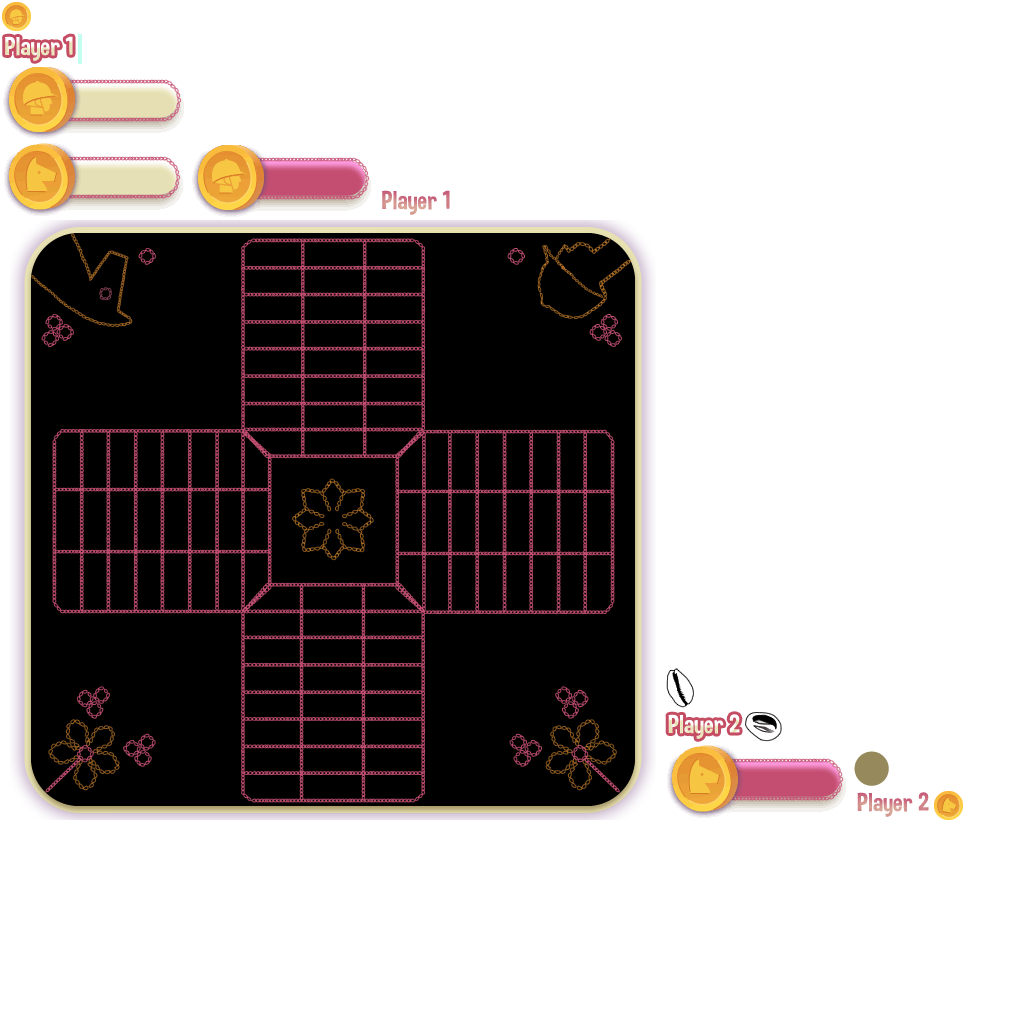
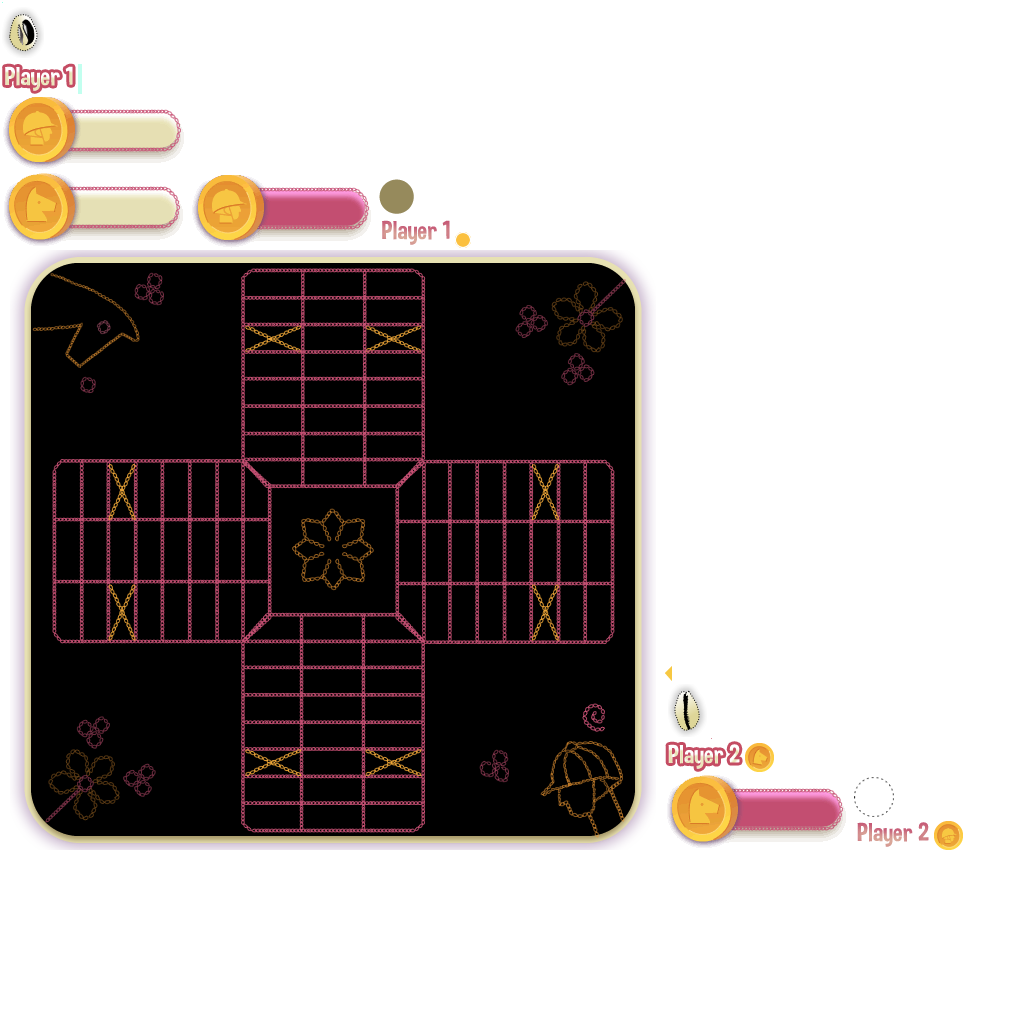
- I set the placeholders of dead pawns - I updated all images according to the latest design (board, move hint, dices, pawn highlight when it can move, etc.) - I fixed the dimension of the dice from square to actual dimensions - For now, we will account for having the game playing with two players (

Changed region(s): [[0.0, 0.0, 0.9375, 0.8438]]

diff --git a/core/src/com/smb215team/barjis/game/GameController.java b/core/src/com/smb215team/barjis/game/GameController.java
@@ -13,8 +13,6 @@ import com.smb215team.barjis.game.objects.DiceContainer;
 import com.smb215team.barjis.game.objects.Dices;
 import com.smb215team.barjis.game.objects.Pawn;
 import com.badlogic.gdx.Game;
-import com.badlogic.gdx.utils.Timer;
-import com.badlogic.gdx.utils.Timer.Task;
 import com.smb215team.barjis.game.enums.GameState;
 import com.smb215team.barjis.game.objects.Player;
 import com.smb215team.barjis.screens.MenuScreen;
@@ -36,7 +34,6 @@ public class GameController {
     // <editor-fold desc="Dino: TO DELETE Dummy stuff">
     Array<Pawn> dummyPawnToFillMap = new Array<Pawn>();
     Pawn dummyPawn = new Pawn();
-    Player dummyPlayer = new Player(1);
     // </editor-fold>
         
     public GameController (Game game) {
@@ -50,10 +47,16 @@ public class GameController {
         timerForThrowingDices = 0.0f;
         ConfigurationController.initCells();
 
-        players = new Player[2]; //TODO: account for variable number of players (1, 2, 3, 4)
+        players = new Player[2]; //TODO: account for variable number of players (1 (AI), 2, 4)
         currentPlayerIndex = 0;
-        for(int i = 0; i < players.length; i++) {
-            players[i] = new Player();
+        if(2 == players.length) {
+            players[0] = new Player(3);
+            players[1] = new Player(1);
+        }
+        else {
+            for(int i = 0; i < players.length; i++) {
+                players[i] = new Player(i);
+            }
         }
         
         initTestObjects();
@@ -85,14 +88,8 @@ public class GameController {
     
     private void initTestObjects() {
         // <editor-fold desc="Dino: TO DELETE Dummy pawn/dice">
-        for(Vector2 cell : dummyPlayer.path){
-            if(cell == null)
-                break;
-            dummyPawnToFillMap.add(new Pawn(cell.x, cell.y));
-        }
-        
-        dummyPawn.position.x = -6.18f;
-        dummyPawn.position.y = 2.83f;
+        dummyPawn.position.x = -7.345f;
+        dummyPawn.position.y = 2.12f;
         // </editor-fold>
     }
     

diff --git a/core/src/com/smb215team/barjis/game/Assets.java b/core/src/com/smb215team/barjis/game/Assets.java
@@ -15,6 +15,7 @@ import com.badlogic.gdx.graphics.g2d.TextureAtlas.AtlasRegion;
 import com.badlogic.gdx.graphics.Texture;
 import com.badlogic.gdx.graphics.Texture.TextureFilter;
 import com.badlogic.gdx.graphics.g2d.BitmapFont;
+import com.badlogic.gdx.utils.Array;
 import com.smb215team.barjis.util.Constants;
 
 /**
@@ -97,10 +98,28 @@ public class Assets implements Disposable, AssetErrorListener {
     }
 
     public class AssetPawn {
-        public final AtlasRegion pawn;
-        
+        public AtlasRegion pawn;
+        Array<AtlasRegion> listOfPawnIcons = new Array<AtlasRegion>();
+     
+        public AssetPawn (TextureAtlas atlas, int pawnImageIndex){
+            int pawnIconCounter = 0;
+            while (null != atlas.findRegion("pawn-" + pawnIconCounter)) {
+                listOfPawnIcons.add(new AtlasRegion(atlas.findRegion("pawn-" + pawnIconCounter)));
+                pawnIconCounter++;
+            }  
+            pawn = listOfPawnIcons.get(pawnImageIndex);
+        }
+
         public AssetPawn (TextureAtlas atlas){
-            pawn = atlas.findRegion("pawn-horse");
+            this (atlas, 0);
+        }
+        
+        public void init() {
+            init(0);
+        }
+        
+        public void init(int pawnImageIndex) {
+            pawn = listOfPawnIcons.get(pawnImageIndex);
         }
     }
     

diff --git a/core/src/com/smb215team/barjis/game/GameRenderer.java b/core/src/com/smb215team/barjis/game/GameRenderer.java
@@ -69,9 +69,6 @@ public class GameRenderer implements Disposable {
         batch.setProjectionMatrix(camera.combined);
         batch.begin();
 
-        for(Pawn pawn:gameController.dummyPawnToFillMap){
-            pawn.render(batch);
-        }
         gameController.dummyPawn.render(batch);
         Dices.instance.render(batch);
         batch.end();
@@ -87,12 +84,12 @@ public class GameRenderer implements Disposable {
         boardSprite.setCenter(0, 0);
         boardSprite.draw(batch);
         
-        float[] deadPawnPlaceholderXPositions = {-7.6f, -6, -5, -4.7f, 7, 7.5f, 8, 9};
+        float[] deadPawnPlaceholderXPositions = {-7.395f, -6.735f, -6.09f, -5.445f, 4.98f, 5.625f, 6.27f, 6.945f};
         Sprite[] deadPawnPlaceholders = new Sprite[8];
         for(int i = 0; i < deadPawnPlaceholders.length; i++) {
             deadPawnPlaceholders[i] = new Sprite(Assets.instance.deadPawnPlaceholder.deadPawnPlaceholder);
-            deadPawnPlaceholders[i].setSize(0.40f, 0.40f);
-            deadPawnPlaceholders[i].setCenter(deadPawnPlaceholderXPositions[i], 3);
+            deadPawnPlaceholders[i].setSize(0.540f, 0.540f);
+            deadPawnPlaceholders[i].setPosition(deadPawnPlaceholderXPositions[i], 2.07f);
             deadPawnPlaceholders[i].draw(batch);
         }
         // </editor-fold>

diff --git a/core/src/com/smb215team/barjis/game/objects/Player.java b/core/src/com/smb215team/barjis/game/objects/Player.java
@@ -22,16 +22,14 @@ public class Player {
     private Array<Vector2> boardMap = new Array<Vector2>();
 
     public Player() {
-        init(0);
+        init(0, 0);
     }
     
     public Player(int branch) {
-        init(branch);
+        init(branch, 0);
     }
     
-    private void init(int branch) {
-        pawns = new Pawn[4];
-
+    private void init(int branch, int pawnImageIndex) {
         // <editor-fold desc="Dino: Getting the full path">
         path = new Vector2[83];
         int pathBuilderPointer = 0;
@@ -72,7 +70,13 @@ public class Player {
             path[i + pathBuilderPointer] = lastBranchPath[i];
         }
         // </editor-fold>
-
+        // <editor-fold desc="Initialising pawns">
+        pawns = new Pawn[4];
+        for(int i = 0; i < pawns.length; i++) {
+            pawns[i] = new Pawn();
+            pawns[i].init(pawnImageIndex);
+        }
+        // </editor-fold>
     }
     
     private Vector2[] buildInitialPath(int branch) {

diff --git a/core/src/com/smb215team/barjis/game/objects/Pawn.java b/core/src/com/smb215team/barjis/game/objects/Pawn.java
@@ -35,10 +35,16 @@ public class Pawn extends AbstractGameObject {
         position.set(x,y);
         init();
     }
-
+    
     public void init() {
-        //dimension.set(0.45f, 0.45f);
-        dimension.set(0.35f, 0.35f);
+        init(0);
+    }
+
+    public void init(int pawnImageIndex) {
+        Assets.instance.pawn.init(pawnImageIndex);
+        pawnImage = Assets.instance.pawn.pawn;
+        dimension.set(0.435f, 0.435f);
+        this.setCenter(this.dimension.x / 2, this.dimension.y / 2);
         pawnImage = Assets.instance.pawn.pawn;
         // Set physics values
         velocity.set(3.0f, 4.0f);

diff --git a/core/src/com/smb215team/barjis/game/objects/AbstractGameObject.java b/core/src/com/smb215team/barjis/game/objects/AbstractGameObject.java
@@ -6,6 +6,7 @@
 package com.smb215team.barjis.game.objects;
 
 import com.badlogic.gdx.Gdx;
+import com.badlogic.gdx.graphics.g2d.Sprite;
 import com.badlogic.gdx.graphics.g2d.SpriteBatch;
 import com.badlogic.gdx.math.Vector2;
 import com.badlogic.gdx.math.Rectangle;
@@ -15,7 +16,7 @@ import com.badlogic.gdx.math.MathUtils;
  *
  * @author dinosaadeh
  */
-public abstract class AbstractGameObject {
+public abstract class AbstractGameObject extends Sprite {
     private static final String TAG = Dices.class.getName();
 
     public Vector2 position;

diff --git a/core/src/com/smb215team/barjis/game/objects/Dice.java b/core/src/com/smb215team/barjis/game/objects/Dice.java
@@ -34,7 +34,7 @@ public class Dice extends AbstractGameObject {
     
     private void init(boolean isDiceUp) {
         diceTexureRegion = isDiceUp ? Assets.instance.dice.diceUp : Assets.instance.dice.diceDown;
-        dimension.set(0.5f, 0.5f);
+        dimension.set(0.66f, 0.84f);//Dino: used to be set to a square of 0.5
         // Set physics values
         //velocity.set(0f, 1f);
         float randomVelocityX = MathUtils.random(-5f, 5f);
